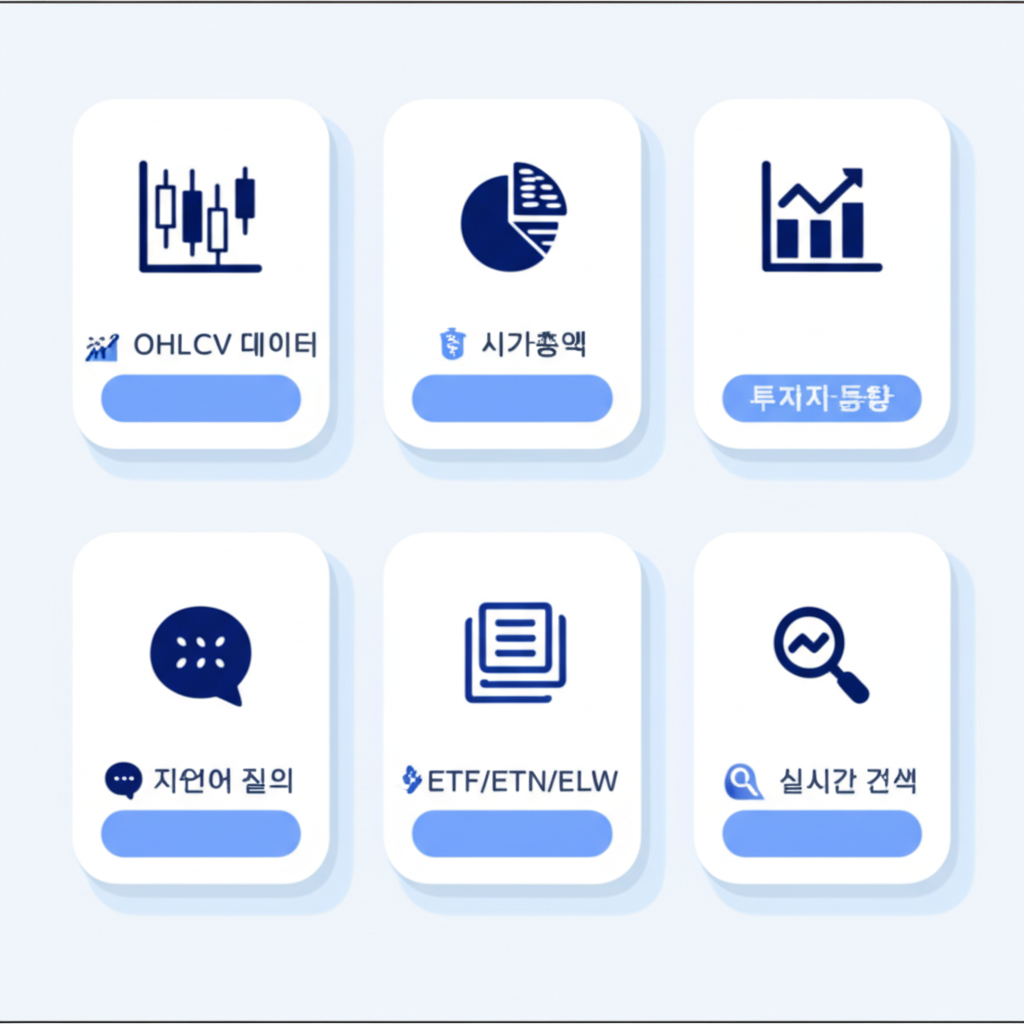
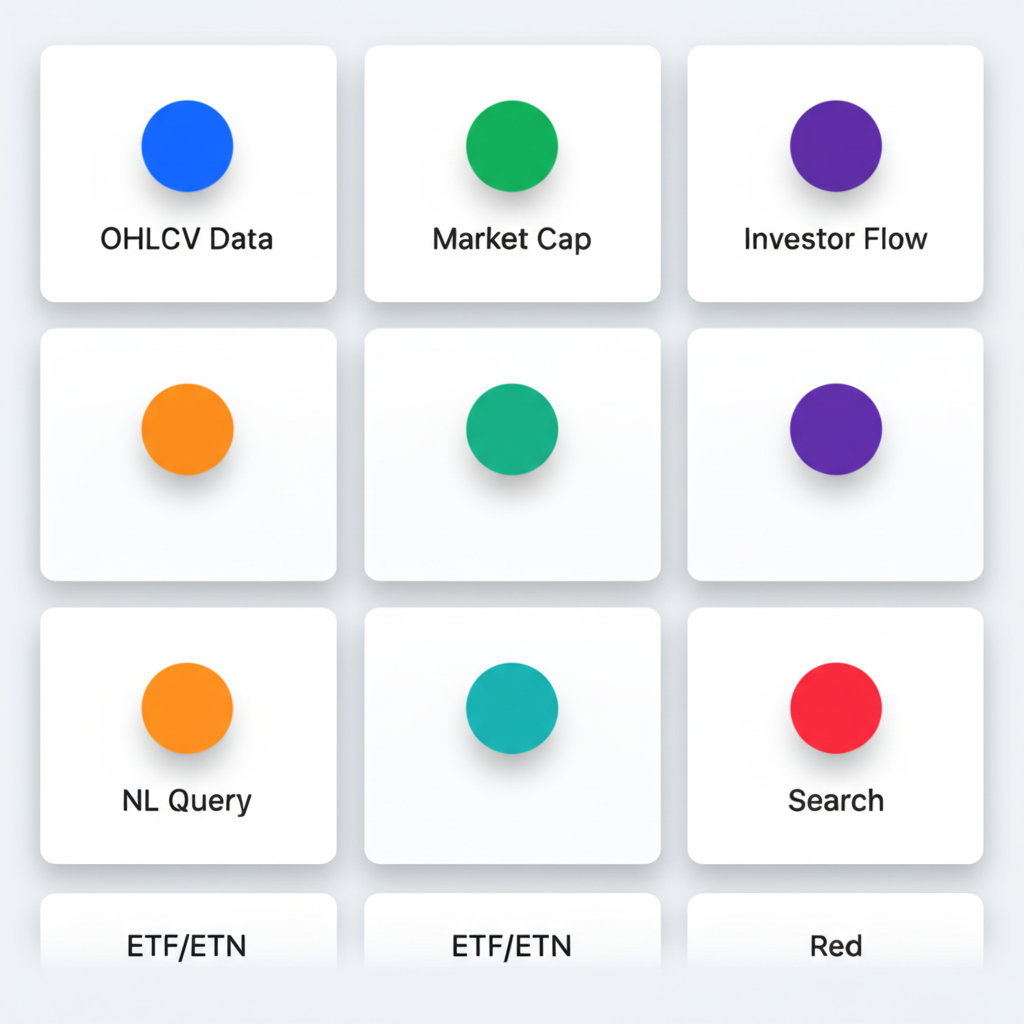
docs: regenerate diagrams with sharper text rendering
- Simplified prompts with explicit resolution (1920x1080, 1200x800)
- Removed Korean text to avoid font rendering issues
- Added CRITICAL text sharpness requirements
- Use only Arial/Helvetica fonts
- Minimalist design without complex icons

diff --git a/scripts/generate-diagrams.py b/scripts/generate-diagrams.py
@@ -38,19 +38,22 @@ def save_image(response, output_path):
 # 1. 히어로 배너 (프로젝트 소개)
 print("1. Generating hero banner...")
 hero_prompt = """
-Create a modern, professional hero banner image for "KRX Data Explorer" project.
+Generate a 1920x1080 pixel professional banner image.
 
-Design requirements:
-- Clean, minimalist tech aesthetic with dark blue (#1a1a2e) to purple (#4a0080) gradient background
-- Centered title "KRX Data Explorer" in bold white sans-serif font (clearly readable)
-- Subtitle below: "한국거래소 데이터 탐색기" in smaller white text
-- Left side: Abstract stock chart visualization with glowing green/red candlesticks
-- Right side: Circular data visualization with interconnected nodes
-- Bottom: Subtle wave pattern representing data flow
-- Overall mood: Professional fintech, modern Korean tech aesthetic
-- Aspect ratio: 16:9 (1920x1080 style)
-- NO photographs of people, pure graphic design
-- Text must be CRISP and READABLE
+CRITICAL TEXT REQUIREMENTS:
+- Main title: "KRX Data Explorer" in 72pt bold Arial/Helvetica white font
+- Subtitle: "Korea Exchange Data Platform" in 36pt white font
+- ALL TEXT MUST BE PERFECTLY SHARP AND READABLE - no blur, no distortion
+- Use simple sans-serif fonts only
+
+DESIGN:
+- Background: solid dark blue (#0f172a) gradient to navy (#1e3a5a)
+- Left side: simple green candlestick chart icon (3-4 bars)
+- Right side: simple pie chart icon
+- Center: the text
+- Minimalist, clean, professional fintech style
+- NO Korean text (to avoid font rendering issues)
+- NO complex graphics, keep it simple and sharp
 """
 
 response = model.generate_content(hero_prompt)
@@ -59,32 +62,34 @@ save_image(response, OUTPUT_DIR / 'hero-banner.png')
 # 2. 시스템 아키텍처 다이어그램
 print("2. Generating architecture diagram...")
 arch_prompt = """
-Create a clean, modern system architecture diagram for a stock data application.
+Generate a 1200x800 pixel system architecture diagram.
 
-Layout (top to bottom, 3 layers):
-LAYER 1 - FRONTEND (light blue box):
-- Icons for: React, TypeScript, Vite, Tailwind CSS, GraphicWalker
-- Label: "Frontend - React + TypeScript"
+CRITICAL: ALL TEXT MUST BE PERFECTLY SHARP AND READABLE.
 
-LAYER 2 - BACKEND (dark blue box):
-- Icons for: FastAPI (Python), NLP Intent Classifier, Session Manager
-- Label: "Backend - FastAPI + PyKRX"
+LAYOUT (3 horizontal layers, top to bottom):
 
-LAYER 3 - DATA SOURCE (green box):
-- KRX Data Marketplace logo/icon
-- Data types: OHLCV, Market Cap, Investor Trading, ETF/ETN
+TOP LAYER - Blue box (#3b82f6):
+- Text: "FRONTEND" in bold 24pt white
+- Below: "React + TypeScript + Vite" in 16pt white
 
-Connections:
-- Arrow from Frontend to Backend labeled "REST API"
-- Arrow from Backend to KRX labeled "Web Scraping + API"
+MIDDLE LAYER - Dark blue box (#1e40af):
+- Text: "BACKEND" in bold 24pt white
+- Below: "FastAPI + PyKRX + NLP" in 16pt white
 
-Style:
-- White background with subtle grid pattern
-- Rounded rectangle boxes with shadows
-- Modern flat design icons
-- Clear Korean/English labels
-- Professional color scheme (blues, greens)
-- Size: 1200x800 pixels style
+BOTTOM LAYER - Green box (#10b981):
+- Text: "KRX DATA" in bold 24pt white
+- Below: "OHLCV, Market Cap, ETF" in 16pt white
+
+ARROWS:
+- Down arrow between each layer
+- Labels: "REST API" and "Web Scraping"
+
+STYLE:
+- Pure white background
+- Simple rounded rectangles with slight shadow
+- Use only Arial/Helvetica fonts
+- NO icons, text only
+- Clean, minimal, professional
 """
 
 response = model.generate_content(arch_prompt)
@@ -93,38 +98,37 @@ save_image(response, OUTPUT_DIR / 'architecture-diagram.png')
 # 3. 데이터 플로우 다이어그램
 print("3. Generating data flow diagram...")
 flow_prompt = """
-Create a horizontal data flow diagram showing natural language query processing.
+Generate a 1400x500 pixel horizontal flowchart.
 
-Flow (left to right):
-1. USER INPUT (blue circle):
-   - Korean text bubble: "삼성전자 PER 알려줘"
-   - Icon: person or chat bubble
+CRITICAL: ALL TEXT MUST BE PERFECTLY SHARP AND READABLE.
 
-2. NLP CLASSIFIER (purple hexagon):
-   - Label: "Intent Classifier"
-   - Sub-label: "의도 분류"
-   - Arrow showing transformation
+FLOW (left to right, 5 steps connected by arrows):
 
-3. API ROUTER (orange rectangle):
-   - Label: "API Router"
-   - Shows endpoint: "/api/fundamental"
-   - Parameters extracted
+STEP 1 - Blue circle:
+- Text: "USER QUERY" in 16pt bold
 
-4. DATA FETCH (green box):
-   - Label: "KRX Data"
-   - Shows data table icon
+STEP 2 - Purple rounded rectangle:
+- Text: "NLP CLASSIFIER" in 16pt bold
 
-5. RESPONSE (blue circle):
-   - Label: "JSON Response"
-   - Shows chart visualization
+STEP 3 - Orange rounded rectangle:
+- Text: "API ROUTER" in 16pt bold
 
-Style:
-- Clean white background
-- Colorful flat icons for each step
-- Curved arrows connecting each step
-- Korean labels with English subtitles
-- Modern, friendly design
-- Size: 1400x500 pixels style
+STEP 4 - Green rounded rectangle:
+- Text: "KRX DATA" in 16pt bold
+
+STEP 5 - Blue circle:
+- Text: "RESPONSE" in 16pt bold
+
+ARROWS:
+- Simple right-pointing arrows between each step
+- Arrow color: gray (#6b7280)
+
+STYLE:
+- Pure white background
+- Each shape has subtle drop shadow
+- Use only Arial/Helvetica fonts
+- NO icons, just colored shapes with text
+- Clean, professional diagram style
 """
 
 response = model.generate_content(flow_prompt)
@@ -133,36 +137,42 @@ save_image(response, OUTPUT_DIR / 'data-flow-diagram.png')
 # 4. UI 목업 / 대시보드 프리뷰
 print("4. Generating UI mockup...")
 ui_prompt = """
-Create a UI mockup of a stock data dashboard application.
+Generate a 1920x1080 pixel dashboard UI mockup screenshot.
 
-Dashboard layout:
-TOP BAR:
-- Logo "KRX Explorer" on left
-- Search bar in center with Korean placeholder "종목 검색..."
-- User menu on right
+CRITICAL: ALL TEXT MUST BE PERFECTLY SHARP AND READABLE.
 
-LEFT SIDEBAR:
-- Navigation menu items with icons:
-  - 대시보드 (Dashboard)
-  - OHLCV 조회
-  - 시가총액
-  - 투자자 동향
-  - 자연어 질의
+LAYOUT:
 
-MAIN CONTENT:
-- Header: "삼성전자 (005930)"
-- Price display: "71,200원" in large green text with "+2.3%"
-- Row of 4 stat cards: PER, PBR, 시가총액, 거래량
-- Below: Line chart showing stock price over time
-- Bottom: Data table with columns (날짜, 시가, 고가, 저가, 종가, 거래량)
+TOP BAR (dark gray #1f2937, 60px height):
+- Left: "KRX Explorer" logo text in white 20pt
+- Center: Search input box
+- Right: User icon
 
-Style:
-- Dark mode theme (dark gray #1f2937 background)
-- Accent colors: green for positive, red for negative
-- Clean modern UI like Bloomberg Terminal meets modern web
-- Korean labels throughout
-- Crisp typography
-- Size: 1920x1080 desktop style
+LEFT SIDEBAR (dark gray #111827, 200px width):
+- Menu items in white 14pt text:
+  - "Dashboard"
+  - "OHLCV Data"
+  - "Market Cap"
+  - "Investor Flow"
+  - "NL Query"
+
+MAIN CONTENT (gray #374151 background):
+- Header: "Samsung Electronics (005930)" in white 28pt
+- Large price: "71,200 KRW" in green (#10b981) 48pt
+- Below: "+2.3%" in green 24pt
+- 4 stat cards in a row (dark boxes with white text):
+  - "PER: 12.5"
+  - "PBR: 1.2"
+  - "Volume: 15M"
+  - "MCap: 450T"
+- Below: Simple line chart (green line on dark background)
+- Bottom: Data table with 5 rows
+
+STYLE:
+- Dark mode fintech dashboard
+- Use only Arial/Helvetica fonts
+- English text only (no Korean)
+- Clean, modern Bloomberg-style
 """
 
 response = model.generate_content(ui_prompt)
@@ -171,28 +181,38 @@ save_image(response, OUTPUT_DIR / 'ui-mockup.png')
 # 5. 기능 아이콘 그리드
 print("5. Generating features grid...")
 features_prompt = """
-Create a 2x3 grid of feature icons for a stock data application.
+Generate a 1200x800 pixel feature grid image.
 
-Grid items (each with icon + Korean label):
-1. 📊 OHLCV 데이터 - candlestick chart icon
-2. 💰 시가총액 - pie chart with coins
-3. 📈 투자자 동향 - bar chart with arrows
-4. 💬 자연어 질의 - chat bubble with Korean text
-5. 📋 ETF/ETN/ELW - stacked documents icon
-6. 🔍 실시간 검색 - magnifying glass with graph
+CRITICAL: ALL TEXT MUST BE PERFECTLY SHARP AND READABLE.
 
-Style:
-- Each item in a rounded card with subtle shadow
-- Consistent icon style (flat, colorful)
-- Light background (#f8fafc)
-- Blue accent color (#3b82f6)
-- Korean labels centered below each icon
-- Modern, clean aesthetic
-- Size: 1200x800 pixels
+LAYOUT: 2 rows x 3 columns grid of feature cards
+
+ROW 1:
+- Card 1: Blue icon, text "OHLCV Data" in 18pt bold
+- Card 2: Green icon, text "Market Cap" in 18pt bold
+- Card 3: Purple icon, text "Investor Flow" in 18pt bold
+
+ROW 2:
+- Card 4: Orange icon, text "NL Query" in 18pt bold
+- Card 5: Teal icon, text "ETF/ETN" in 18pt bold
+- Card 6: Red icon, text "Search" in 18pt bold
+
+EACH CARD:
+- White background with subtle shadow
+- Rounded corners (16px)
+- Simple geometric icon (circle, square, or triangle)
+- Text centered below icon
+
+STYLE:
+- Light gray background (#f1f5f9)
+- Equal spacing between cards
+- Use only Arial/Helvetica fonts
+- English text only
+- Minimal, modern design
 """
 
 response = model.generate_content(features_prompt)
 save_image(response, OUTPUT_DIR / 'features-grid.png')
 
-print("\n✅ All diagrams generated successfully!")
-print(f"   Output directory: {OUTPUT_DIR}")
+print("All diagrams generated!")
+print(f"Output: {OUTPUT_DIR}")
